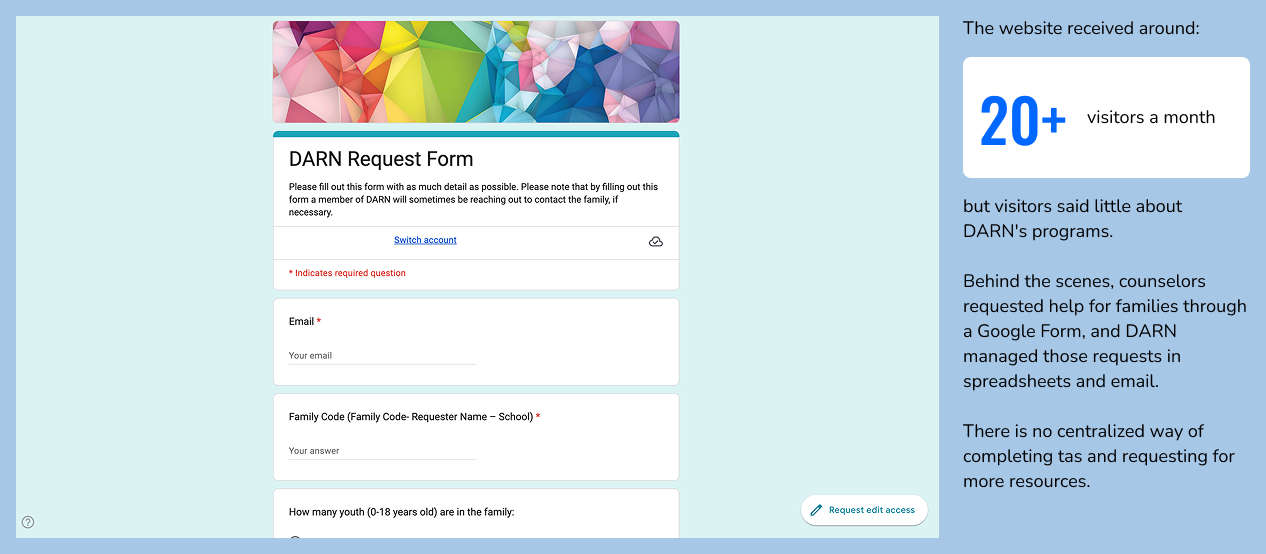
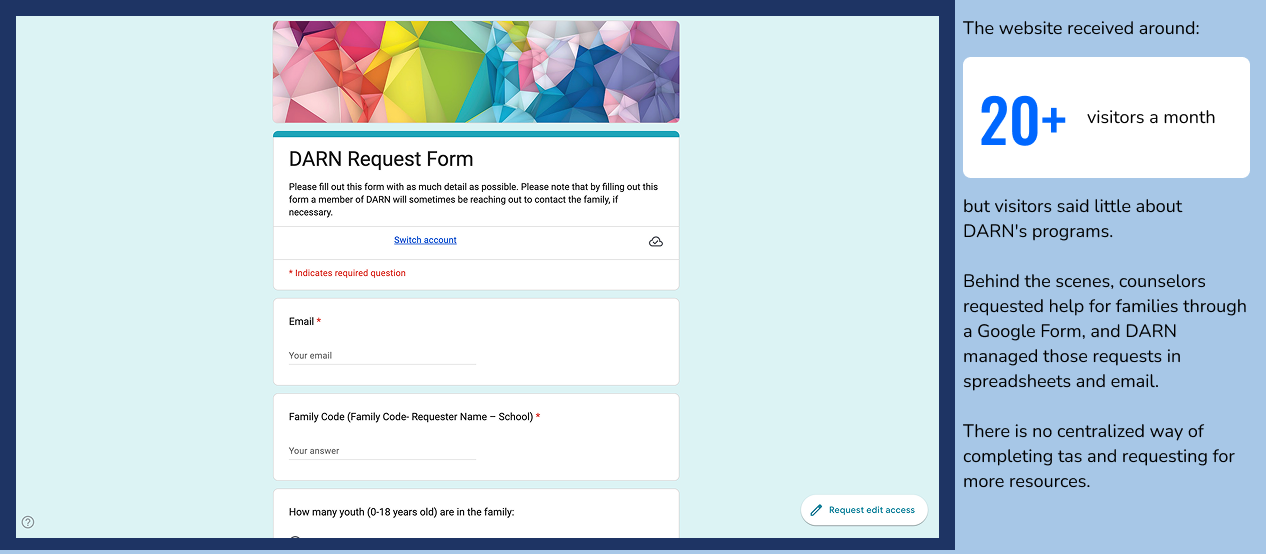
Added external link for DARN

Changed region(s): [[0.0, 0.0, 0.7701, 1.0]]

diff --git a/src/data/ProjectData.js b/src/data/ProjectData.js
@@ -821,6 +821,8 @@ export const ProjectData = [
     image: Darn,
     banner: DarnBanner,
     heroWord: "Bexley DARN",
+    link: "https://bexleydarn.org/",
+    linkLabel: "View Shipped Product",
     sections: [
       {
         id: "overview",
